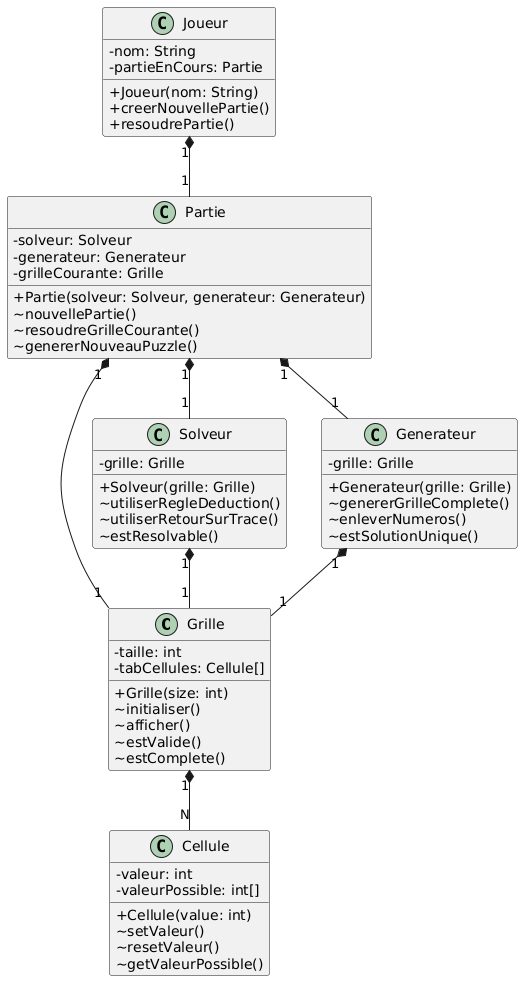
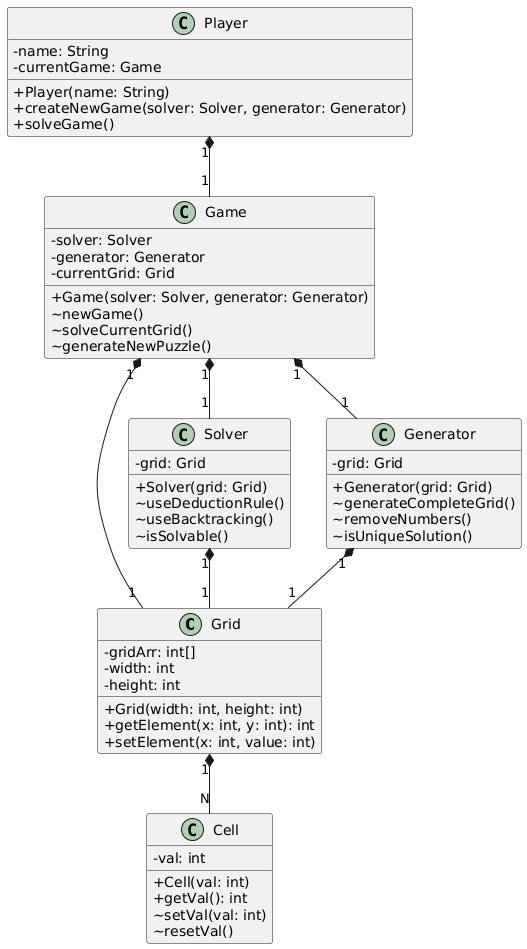
update

diff --git a/Sudoku/src/com/gmail/darkfireyo/Cell.java b/Sudoku/src/com/gmail/darkfireyo/Cell.java
@@ -3,7 +3,7 @@ package com.gmail.darkfireyo;
 public class Cell {
     private int val;
 
-    public int getValeur() {
+    public int getVal() {
         return val;
     }
 
@@ -11,11 +11,11 @@ public class Cell {
         this.val = val;
     }
 
-    void setValeur(int val) {
+    void setVal(int val) {
         this.val = val;
     }
 
-    void resetValeur() {
+    void resetVal() {
         this.val = 0;
     }
 }

diff --git a/Sudoku/src/com/gmail/darkfireyo/Main.java b/Sudoku/src/com/gmail/darkfireyo/Main.java
@@ -1,0 +1,5 @@
+package com.gmail.darkfireyo;
+
+public class Main {
+    
+}
